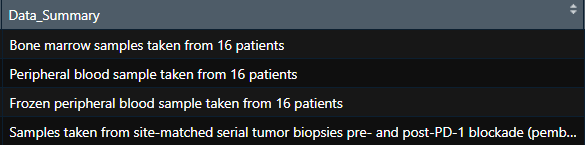
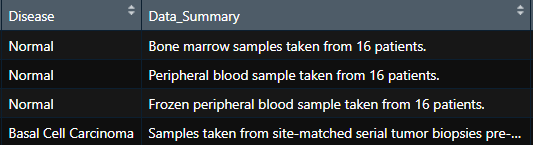
updating readme documentation

diff --git a/README.md b/README.md
@@ -49,10 +49,10 @@ Note: in order to keep the function's interface consistent, `queryATAC` always r
 
 ![Screenshot of the metadata table](docs/metadataTable.png)
 
-The `metatadata_only` argument can be applied alongside any other argument in order to examine only datasets that have certain qualities. You can, for instance, view only leukemia datasets by using:
+The `metatadata_only` argument can be applied alongside any other argument in order to examine just the metadata of matching datasets. You can, for instance, view only leukemia datasets by using:
 
 ```R
-> res = queryATAC(disease = 'leukemia', metadata_only = TRUE)[[1]]
+> res = queryATAC(disease = "leukemia", metadata_only = TRUE)[[1]]
 > View(res)
 ```
 
@@ -89,7 +89,7 @@ Once you've found a field to search on, and have identified dataset(s) you are i
 > res = queryATAC(accession = "GSE89362")
 ```
 
-This will return a list containing dataset GSE89362. The dataset is stored as a `SingleCellExperiment` object. The object contains the peak-by-cell matrix, as well as metadata for the dataset, including:
+This will return a named list containing all datasets that are found by the query. In this case the list contains only dataset GSE89362. The dataset is stored as a `SingleCellExperiment` object. The object contains the peak-by-cell counts matrix, as well as metadata for the dataset, including:
 
 #### Metadata
 
@@ -111,17 +111,17 @@ This will return a list containing dataset GSE89362. The dataset is stored as a 
 
 Due to some datasets contain data gathered from several different organisims (such as both mice and human) or experimental conditions, some datasets are represtented by several entries with the same reference and accession, but containing different data. The *Data_Summary* and *matrix_names* field in the returned metadata table specify the contents of datasets with multiple entries. An example is given below:
 
-This single study collected data relating to carcinoma, and was found using *queryATAC(disease = carcinoma, metadata_only = TRUE)*. As shown below, there are 4 entries for data from one study.
+This study collected data relating to carcinoma and PBMC data was retrieved by using *queryATAC(accession = "GSE129785", metadata_only = TRUE)* to initially see just metadata associated with the study. As shown in the metadata_only results table below, there are 4 entries for data from one study, meaning there are 4 matrices of scATAC-seq data associated with this study.
 
 ![Screenshot of carcinoma metadata search results](docs/CarcinomaDatasets.png)
 
-By examining the *Data_Summary* field of the metadata results, we can see that each object that will be returned from a data query represents a different tissue sample.
+By examining the *Disease* and *Data_Summary* fields of the *metadata_only = TRUE* results, we can see that each object that will be returned represents a different tissue sample, some being healthy bone marrow samples, or others being basal cell carcinoma tumor biopsies. This data summary is also attached to each SingleCellExperiment object when entire datasets are downloaded.
 
 ![Screenshot of carcinoma metadata data summary fields](docs/CarcinomaDatasetsDataSummary.png)
 
 #### Accessing data
 
-To access the sequencing data (a peak-by-cell counts matrix), use the *counts()* function. Rows of the peak-by-cell matrix correspond to genomic regions (in the format of chromsome-start-end) that presented chromatin accessibility peaks, or pre-defined windows in the genome. Each column of the matrix represents a cell (named by the unique cell ID or cell barcode). Individual reads within the matrix specify whether accessibile chromatin was detected within the cell (0 if none detected). _Note: In the example image, a subset of the first 8 rows and columns of matrix were selected for demonstration purposes._
+To access the sequencing data (a peak-by-cell counts matrix), use the *counts()* function. Rows of the peak-by-cell matrix correspond to genomic regions (in the format of chromsome-start-end) that presented chromatin accessibility peaks, or pre-defined binned windows in the genome. Each column of the matrix represents a cell (named by the unique cell ID or cell barcode). Individual reads within the matrix specify whether accessibile chromatin was detected within the cell (0 if none detected, which is stored as a "." in sparse matrices). _Note: In the example image, a subset of the first 8 rows and columns of matrix were selected for demonstration purposes._
 
 ```R
 > counts(res[[1]])
@@ -130,6 +130,10 @@ To access the sequencing data (a peak-by-cell counts matrix), use the *counts()*
 ![Screenshot of counts matrix](docs/GSE89362countsMatrix.png)
 
 Cell type labels and/or cluster assignments are stored under `colData(res[[1]])` for datasets where cell type and/or cluster labels are available.
+
+As shown below, there can be multiple matrices returned by one query. Each item in the list is named to help differentiate them from one another, and can be selected by using res[[1]], res[[2]] and so on, or can be iterated over. Below is an example of a single dataset (GSE67446) that has two matrices associated with it, shown using *View(res)*.
+
+![Screenshot of counts matrix](docs/MultipleDatasetExample.png)
 
 To access metadata for the first dataset in a query result, use
 
@@ -142,6 +146,7 @@ Specific metadata entries can be accessed by specifying the attribute name, for 
 ```R
 > metadata(res[[1]])$pmid
 ```
+
 
 ### Example: Working with datasets containing cell type labels
 
